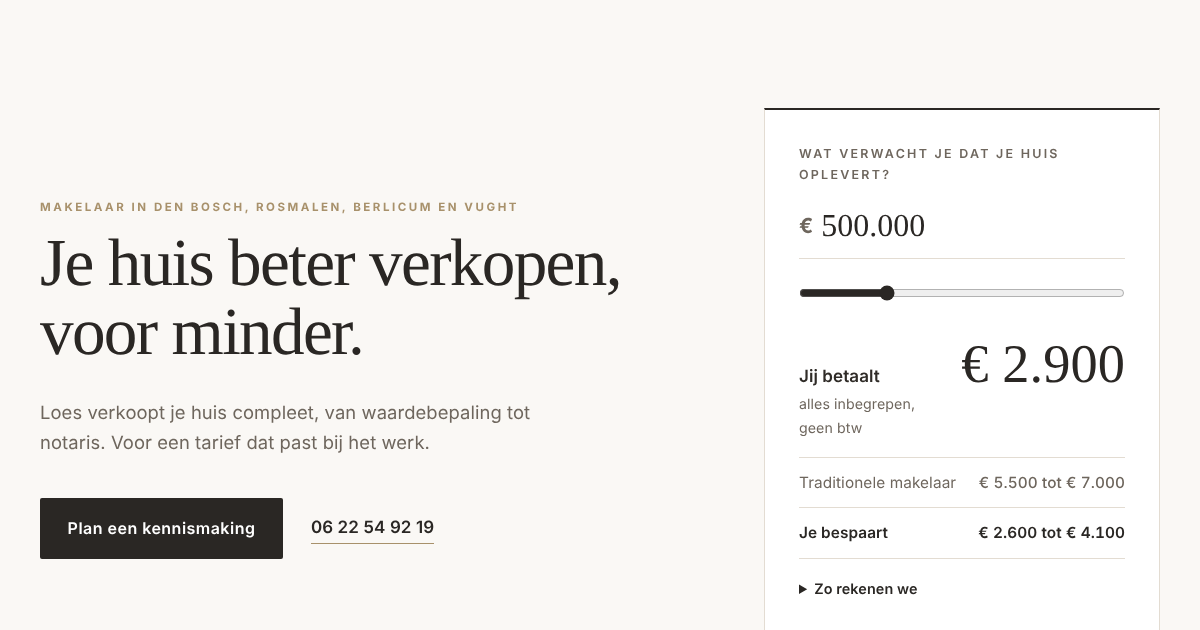
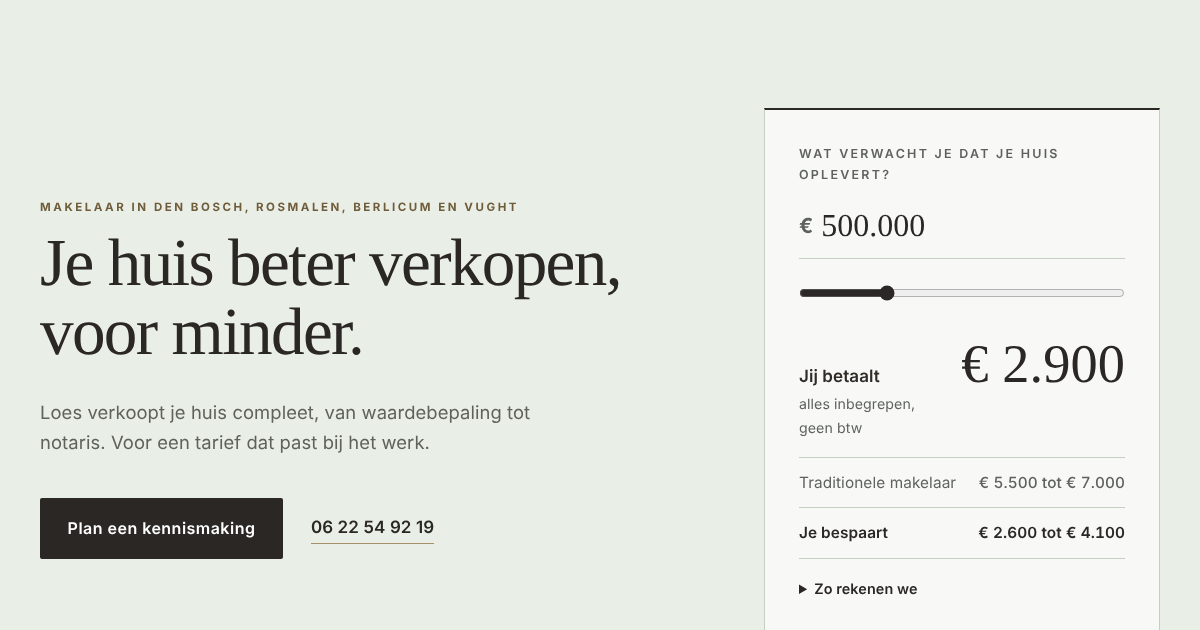
Rustige salie achtergrond, contrast accenttekst verbeterd

Changed region(s): [[0.0308, 0.3016, 0.4317, 0.3317]]

diff --git a/index.html b/index.html
@@ -15,7 +15,7 @@
 <meta property="og:image" content="https://mevrouw-de-makelaar.nl/og-image.png">
 <meta name="theme-color" content="#2a2724">
 <link rel="icon" href="/favicon.svg" type="image/svg+xml">
-<link rel="stylesheet" href="/styles.css?v=0acbd045">
+<link rel="stylesheet" href="/styles.css?v=f67e289f">
 <script type="application/ld+json">{"@context":"https://schema.org","@type":"RealEstateAgent","name":"Mevrouw de Makelaar","url":"https://mevrouw-de-makelaar.nl","email":"loes@salesday.nl","telephone":"+31622549219","description":"Persoonlijke woningverkoop in Den Bosch, Rosmalen, Berlicum en Vught tegen een transparante, lage prijs: (1% van de verkoopprijs min €800 kosten) gedeeld door 2, plus €800 vaste kosten.","areaServed":[{"@type":"City","name":"'s-Hertogenbosch"},{"@type":"City","name":"Rosmalen"},{"@type":"City","name":"Berlicum"},{"@type":"City","name":"Vught"}],"address":{"@type":"PostalAddress","addressLocality":"Rosmalen","addressCountry":"NL"},"founder":{"@type":"Person","name":"Loes"},"priceRange":"€"}</script>
 <script type="application/ld+json">{"@context":"https://schema.org","@type":"FAQPage","mainEntity":[{"@type":"Question","name":"Wat betaal ik?","acceptedAnswer":{"@type":"Answer","text":"De helft van (1% van de verkoopprijs min €800), plus €800 vaste kosten. Bij €500.000 is dat €2.900, alles inbegrepen. Er komt geen btw bij."}},{"@type":"Question","name":"Waarom is het tarief zo veel lager?","acceptedAnswer":{"@type":"Answer","text":"Het werk is bij elke woning ongeveer gelijk. Wij rekenen voor het werk, niet voor de prijs van je huis."}},{"@type":"Question","name":"Wat zit er in de vaste kosten?","acceptedAnswer":{"@type":"Answer","text":"Funda, de fotograaf en de brochures. Niet inbegrepen: energielabel, keuringen en notariskosten [controleren]."}},{"@type":"Question","name":"Wie doet de bezichtigingen?","acceptedAnswer":{"@type":"Answer","text":"Loes, persoonlijk. Ook de onderhandeling doet ze zelf; jij beslist over elk bod."}},{"@type":"Question","name":"In welke regio werkt Loes?","acceptedAnswer":{"@type":"Answer","text":"Den Bosch, Rosmalen, Berlicum, Vught en directe omgeving."}}]}</script>
 </head>

diff --git a/404.html b/404.html
@@ -15,7 +15,7 @@
 <meta property="og:image" content="https://mevrouw-de-makelaar.nl/og-image.png">
 <meta name="theme-color" content="#2a2724">
 <link rel="icon" href="/favicon.svg" type="image/svg+xml">
-<link rel="stylesheet" href="/styles.css?v=0acbd045">
+<link rel="stylesheet" href="/styles.css?v=f67e289f">
 <script type="application/ld+json">{"@context":"https://schema.org","@type":"RealEstateAgent","name":"Mevrouw de Makelaar","url":"https://mevrouw-de-makelaar.nl","email":"loes@salesday.nl","telephone":"+31622549219","description":"Persoonlijke woningverkoop in Den Bosch, Rosmalen, Berlicum en Vught tegen een transparante, lage prijs: (1% van de verkoopprijs min €800 kosten) gedeeld door 2, plus €800 vaste kosten.","areaServed":[{"@type":"City","name":"'s-Hertogenbosch"},{"@type":"City","name":"Rosmalen"},{"@type":"City","name":"Berlicum"},{"@type":"City","name":"Vught"}],"address":{"@type":"PostalAddress","addressLocality":"Rosmalen","addressCountry":"NL"},"founder":{"@type":"Person","name":"Loes"},"priceRange":"€"}</script>
 </head>
 <body>

diff --git a/contact.html b/contact.html
@@ -15,7 +15,7 @@
 <meta property="og:image" content="https://mevrouw-de-makelaar.nl/og-image.png">
 <meta name="theme-color" content="#2a2724">
 <link rel="icon" href="/favicon.svg" type="image/svg+xml">
-<link rel="stylesheet" href="/styles.css?v=0acbd045">
+<link rel="stylesheet" href="/styles.css?v=f67e289f">
 <script type="application/ld+json">{"@context":"https://schema.org","@type":"RealEstateAgent","name":"Mevrouw de Makelaar","url":"https://mevrouw-de-makelaar.nl","email":"loes@salesday.nl","telephone":"+31622549219","description":"Persoonlijke woningverkoop in Den Bosch, Rosmalen, Berlicum en Vught tegen een transparante, lage prijs: (1% van de verkoopprijs min €800 kosten) gedeeld door 2, plus €800 vaste kosten.","areaServed":[{"@type":"City","name":"'s-Hertogenbosch"},{"@type":"City","name":"Rosmalen"},{"@type":"City","name":"Berlicum"},{"@type":"City","name":"Vught"}],"address":{"@type":"PostalAddress","addressLocality":"Rosmalen","addressCountry":"NL"},"founder":{"@type":"Person","name":"Loes"},"priceRange":"€"}</script>
 </head>
 <body>

diff --git a/cookies.html b/cookies.html
@@ -15,7 +15,7 @@
 <meta property="og:image" content="https://mevrouw-de-makelaar.nl/og-image.png">
 <meta name="theme-color" content="#2a2724">
 <link rel="icon" href="/favicon.svg" type="image/svg+xml">
-<link rel="stylesheet" href="/styles.css?v=0acbd045">
+<link rel="stylesheet" href="/styles.css?v=f67e289f">
 <script type="application/ld+json">{"@context":"https://schema.org","@type":"RealEstateAgent","name":"Mevrouw de Makelaar","url":"https://mevrouw-de-makelaar.nl","email":"loes@salesday.nl","telephone":"+31622549219","description":"Persoonlijke woningverkoop in Den Bosch, Rosmalen, Berlicum en Vught tegen een transparante, lage prijs: (1% van de verkoopprijs min €800 kosten) gedeeld door 2, plus €800 vaste kosten.","areaServed":[{"@type":"City","name":"'s-Hertogenbosch"},{"@type":"City","name":"Rosmalen"},{"@type":"City","name":"Berlicum"},{"@type":"City","name":"Vught"}],"address":{"@type":"PostalAddress","addressLocality":"Rosmalen","addressCountry":"NL"},"founder":{"@type":"Person","name":"Loes"},"priceRange":"€"}</script>
 </head>
 <body>

diff --git a/over-loes.html b/over-loes.html
@@ -15,7 +15,7 @@
 <meta property="og:image" content="https://mevrouw-de-makelaar.nl/og-image.png">
 <meta name="theme-color" content="#2a2724">
 <link rel="icon" href="/favicon.svg" type="image/svg+xml">
-<link rel="stylesheet" href="/styles.css?v=0acbd045">
+<link rel="stylesheet" href="/styles.css?v=f67e289f">
 <script type="application/ld+json">{"@context":"https://schema.org","@type":"RealEstateAgent","name":"Mevrouw de Makelaar","url":"https://mevrouw-de-makelaar.nl","email":"loes@salesday.nl","telephone":"+31622549219","description":"Persoonlijke woningverkoop in Den Bosch, Rosmalen, Berlicum en Vught tegen een transparante, lage prijs: (1% van de verkoopprijs min €800 kosten) gedeeld door 2, plus €800 vaste kosten.","areaServed":[{"@type":"City","name":"'s-Hertogenbosch"},{"@type":"City","name":"Rosmalen"},{"@type":"City","name":"Berlicum"},{"@type":"City","name":"Vught"}],"address":{"@type":"PostalAddress","addressLocality":"Rosmalen","addressCountry":"NL"},"founder":{"@type":"Person","name":"Loes"},"priceRange":"€"}</script>
 </head>
 <body>

diff --git a/privacy.html b/privacy.html
@@ -15,7 +15,7 @@
 <meta property="og:image" content="https://mevrouw-de-makelaar.nl/og-image.png">
 <meta name="theme-color" content="#2a2724">
 <link rel="icon" href="/favicon.svg" type="image/svg+xml">
-<link rel="stylesheet" href="/styles.css?v=0acbd045">
+<link rel="stylesheet" href="/styles.css?v=f67e289f">
 <script type="application/ld+json">{"@context":"https://schema.org","@type":"RealEstateAgent","name":"Mevrouw de Makelaar","url":"https://mevrouw-de-makelaar.nl","email":"loes@salesday.nl","telephone":"+31622549219","description":"Persoonlijke woningverkoop in Den Bosch, Rosmalen, Berlicum en Vught tegen een transparante, lage prijs: (1% van de verkoopprijs min €800 kosten) gedeeld door 2, plus €800 vaste kosten.","areaServed":[{"@type":"City","name":"'s-Hertogenbosch"},{"@type":"City","name":"Rosmalen"},{"@type":"City","name":"Berlicum"},{"@type":"City","name":"Vught"}],"address":{"@type":"PostalAddress","addressLocality":"Rosmalen","addressCountry":"NL"},"founder":{"@type":"Person","name":"Loes"},"priceRange":"€"}</script>
 </head>
 <body>

diff --git a/tarieven.html b/tarieven.html
@@ -15,7 +15,7 @@
 <meta property="og:image" content="https://mevrouw-de-makelaar.nl/og-image.png">
 <meta name="theme-color" content="#2a2724">
 <link rel="icon" href="/favicon.svg" type="image/svg+xml">
-<link rel="stylesheet" href="/styles.css?v=0acbd045">
+<link rel="stylesheet" href="/styles.css?v=f67e289f">
 <script type="application/ld+json">{"@context":"https://schema.org","@type":"RealEstateAgent","name":"Mevrouw de Makelaar","url":"https://mevrouw-de-makelaar.nl","email":"loes@salesday.nl","telephone":"+31622549219","description":"Persoonlijke woningverkoop in Den Bosch, Rosmalen, Berlicum en Vught tegen een transparante, lage prijs: (1% van de verkoopprijs min €800 kosten) gedeeld door 2, plus €800 vaste kosten.","areaServed":[{"@type":"City","name":"'s-Hertogenbosch"},{"@type":"City","name":"Rosmalen"},{"@type":"City","name":"Berlicum"},{"@type":"City","name":"Vught"}],"address":{"@type":"PostalAddress","addressLocality":"Rosmalen","addressCountry":"NL"},"founder":{"@type":"Person","name":"Loes"},"priceRange":"€"}</script>
 </head>
 <body>

diff --git a/verkocht.html b/verkocht.html
@@ -15,7 +15,7 @@
 <meta property="og:image" content="https://mevrouw-de-makelaar.nl/og-image.png">
 <meta name="theme-color" content="#2a2724">
 <link rel="icon" href="/favicon.svg" type="image/svg+xml">
-<link rel="stylesheet" href="/styles.css?v=0acbd045">
+<link rel="stylesheet" href="/styles.css?v=f67e289f">
 <script type="application/ld+json">{"@context":"https://schema.org","@type":"RealEstateAgent","name":"Mevrouw de Makelaar","url":"https://mevrouw-de-makelaar.nl","email":"loes@salesday.nl","telephone":"+31622549219","description":"Persoonlijke woningverkoop in Den Bosch, Rosmalen, Berlicum en Vught tegen een transparante, lage prijs: (1% van de verkoopprijs min €800 kosten) gedeeld door 2, plus €800 vaste kosten.","areaServed":[{"@type":"City","name":"'s-Hertogenbosch"},{"@type":"City","name":"Rosmalen"},{"@type":"City","name":"Berlicum"},{"@type":"City","name":"Vught"}],"address":{"@type":"PostalAddress","addressLocality":"Rosmalen","addressCountry":"NL"},"founder":{"@type":"Person","name":"Loes"},"priceRange":"€"}</script>
 </head>
 <body>

diff --git a/voorwaarden.html b/voorwaarden.html
@@ -15,7 +15,7 @@
 <meta property="og:image" content="https://mevrouw-de-makelaar.nl/og-image.png">
 <meta name="theme-color" content="#2a2724">
 <link rel="icon" href="/favicon.svg" type="image/svg+xml">
-<link rel="stylesheet" href="/styles.css?v=0acbd045">
+<link rel="stylesheet" href="/styles.css?v=f67e289f">
 <script type="application/ld+json">{"@context":"https://schema.org","@type":"RealEstateAgent","name":"Mevrouw de Makelaar","url":"https://mevrouw-de-makelaar.nl","email":"loes@salesday.nl","telephone":"+31622549219","description":"Persoonlijke woningverkoop in Den Bosch, Rosmalen, Berlicum en Vught tegen een transparante, lage prijs: (1% van de verkoopprijs min €800 kosten) gedeeld door 2, plus €800 vaste kosten.","areaServed":[{"@type":"City","name":"'s-Hertogenbosch"},{"@type":"City","name":"Rosmalen"},{"@type":"City","name":"Berlicum"},{"@type":"City","name":"Vught"}],"address":{"@type":"PostalAddress","addressLocality":"Rosmalen","addressCountry":"NL"},"founder":{"@type":"Person","name":"Loes"},"priceRange":"€"}</script>
 </head>
 <body>

diff --git a/werkwijze.html b/werkwijze.html
@@ -15,7 +15,7 @@
 <meta property="og:image" content="https://mevrouw-de-makelaar.nl/og-image.png">
 <meta name="theme-color" content="#2a2724">
 <link rel="icon" href="/favicon.svg" type="image/svg+xml">
-<link rel="stylesheet" href="/styles.css?v=0acbd045">
+<link rel="stylesheet" href="/styles.css?v=f67e289f">
 <script type="application/ld+json">{"@context":"https://schema.org","@type":"RealEstateAgent","name":"Mevrouw de Makelaar","url":"https://mevrouw-de-makelaar.nl","email":"loes@salesday.nl","telephone":"+31622549219","description":"Persoonlijke woningverkoop in Den Bosch, Rosmalen, Berlicum en Vught tegen een transparante, lage prijs: (1% van de verkoopprijs min €800 kosten) gedeeld door 2, plus €800 vaste kosten.","areaServed":[{"@type":"City","name":"'s-Hertogenbosch"},{"@type":"City","name":"Rosmalen"},{"@type":"City","name":"Berlicum"},{"@type":"City","name":"Vught"}],"address":{"@type":"PostalAddress","addressLocality":"Rosmalen","addressCountry":"NL"},"founder":{"@type":"Person","name":"Loes"},"priceRange":"€"}</script>
 </head>
 <body>

diff --git a/styles.css b/styles.css
@@ -511,3 +511,18 @@ h2 { font-size: clamp(1.6rem, 3vw, 2.3rem); }
 .split-head h2 { margin-bottom: 0; }
 .hero-ed { padding-bottom: clamp(56px, 8vw, 110px); }
 .hero-ed h1 { font-size: clamp(2.6rem, 5.6vw, 4.6rem); }
+/* Rustige achtergrond: zacht salie */
+:root { --sand-50: #eef0eb; --sand-100: #e4e8e0; --sand-200: #cdd3c8; --muted: #5f625c; }
+body { background: var(--sand-50); }
+.site-header { background: rgba(238, 240, 235, .96); border-bottom-color: var(--sand-200); }
+.photo-ph { background: #dde2d8; }
+.photo-ph { background-image: none; }
+.qcalc, .calc { background: #f8f9f6; }
+.field input, .field textarea { background: #f8f9f6; }
+.calc-output { background: var(--sand-50); }
+.eyebrow, .hp-label, .num, .steps-ed li::before, .logo small { color: #6f5c3a; }
+.site-footer .logo small { color: #c9b48e; }
+:root { --sand-50: #e9eee6; --sand-100: #dde5da; --sand-200: #c6d0c2; }
+.site-header { background: rgba(233, 238, 230, .96); }
+.money-input { background: transparent; }
+.photo-ph { background: #d3dccf; }
